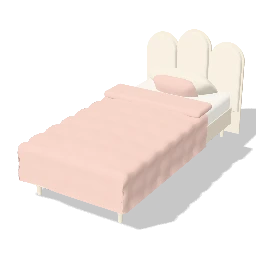
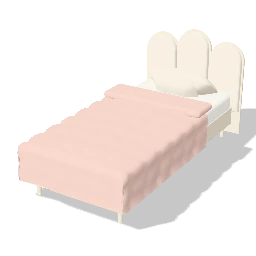
Kids bed and teddy: both pillows on the pillows slot, sand linen fur
The front cushion follows the pillows finish, so the slot covers the plump
pillow and the cushion as the room layout expects; the teddy's fur defaults to
sand linen, a fabric.

Changed region(s): [[0.5938, 0.2812, 0.7812, 0.4062]]

diff --git a/packages/catalog/src/premium/kids.ts b/packages/catalog/src/premium/kids.ts
@@ -17,11 +17,11 @@ import { KIDS_STORAGE_GENERATORS } from './kids.storage';
 export const KIDS_BED_SLOTS: FinishSlot[] = [
   { id: 'frame', label: 'Frame', kind: 'lacquer', default: 'lacquer.cream' },
   { id: 'headboard', label: 'Headboard', kind: 'fabric', default: 'fabric.boucle.cream' },
-  { id: 'bedding', label: 'Quilt and cushion', kind: 'fabric', default: 'fabric.cotton.blush' },
-  { id: 'pillows', label: 'Pillow', kind: 'fabric', default: 'fabric.linen.ivory' },
+  { id: 'bedding', label: 'Quilt', kind: 'fabric', default: 'fabric.cotton.blush' },
+  { id: 'pillows', label: 'Pillow and cushion', kind: 'fabric', default: 'fabric.linen.ivory' },
 ];
 
-export const KIDS_TEDDY_SLOTS: FinishSlot[] = [{ id: 'fur', label: 'Fur', kind: 'fabric', default: 'woven.jute' }];
+export const KIDS_TEDDY_SLOTS: FinishSlot[] = [{ id: 'fur', label: 'Fur', kind: 'fabric', default: 'fabric.linen.sand' }];
 
 /** The fitted sheet and mattress. */
 const SHEET = 'fabric.cotton.white';
@@ -127,7 +127,7 @@ export function quiltedDuvet(w: number, z0: number, z1: number, top: number, hem
  * Kids' single bed. A low frame on short tapered legs, a scalloped headboard of
  * upholstered arches on a lacquered backing, a mattress in a white sheet, a
  * quilted cover that falls nearly to the floor, folded back at the head, one
- * plump pillow and a smaller cushion in the cover's fabric. Head at -Z.
+ * plump pillow and a smaller cushion in front of it. Head at -Z.
  *
  * Params: `scallops` across the headboard (default one per 330 mm of width).
  */
@@ -179,13 +179,13 @@ export function buildKidsBed(entry: CatalogEntry, ctx?: BuildContext): THREE.Obj
   m.fixed(SHEET, rbox(mattW, mattH, mattLen, 0.05, 0, mattY, bedBack + 0.005 + mattLen / 2, 4));
   const top = mattY + mattH;
 
-  /* Pillow leaning on the headboard, a smaller cushion in the cover's fabric in front. */
+  /* Pillow leaning on the headboard, a smaller cushion in front. */
   const pw = Math.min(0.66, mattW - 0.14);
   const pz = bedBack + 0.2;
   m.part('pillows', turn(pillow(pw, 0.2, 0.44, 0, top - 0.03, pz), -0.62, 0, 0, 0, top, pz));
   const cwid = Math.min(0.44, pw * 0.68);
   const cz = bedBack + 0.36;
-  m.part('bedding', turn(pillow(cwid, 0.13, 0.32, 0, top + 0.005, cz), -1.05, 0, 0, 0, top, cz));
+  m.part('pillows', turn(pillow(cwid, 0.13, 0.32, 0, top + 0.005, cz), -1.05, 0, 0, 0, top, cz));
 
   /* The quilted cover: from below the cushion to the foot, nearly to the floor; folded back at the head. */
   const start = bedBack + 0.52;
